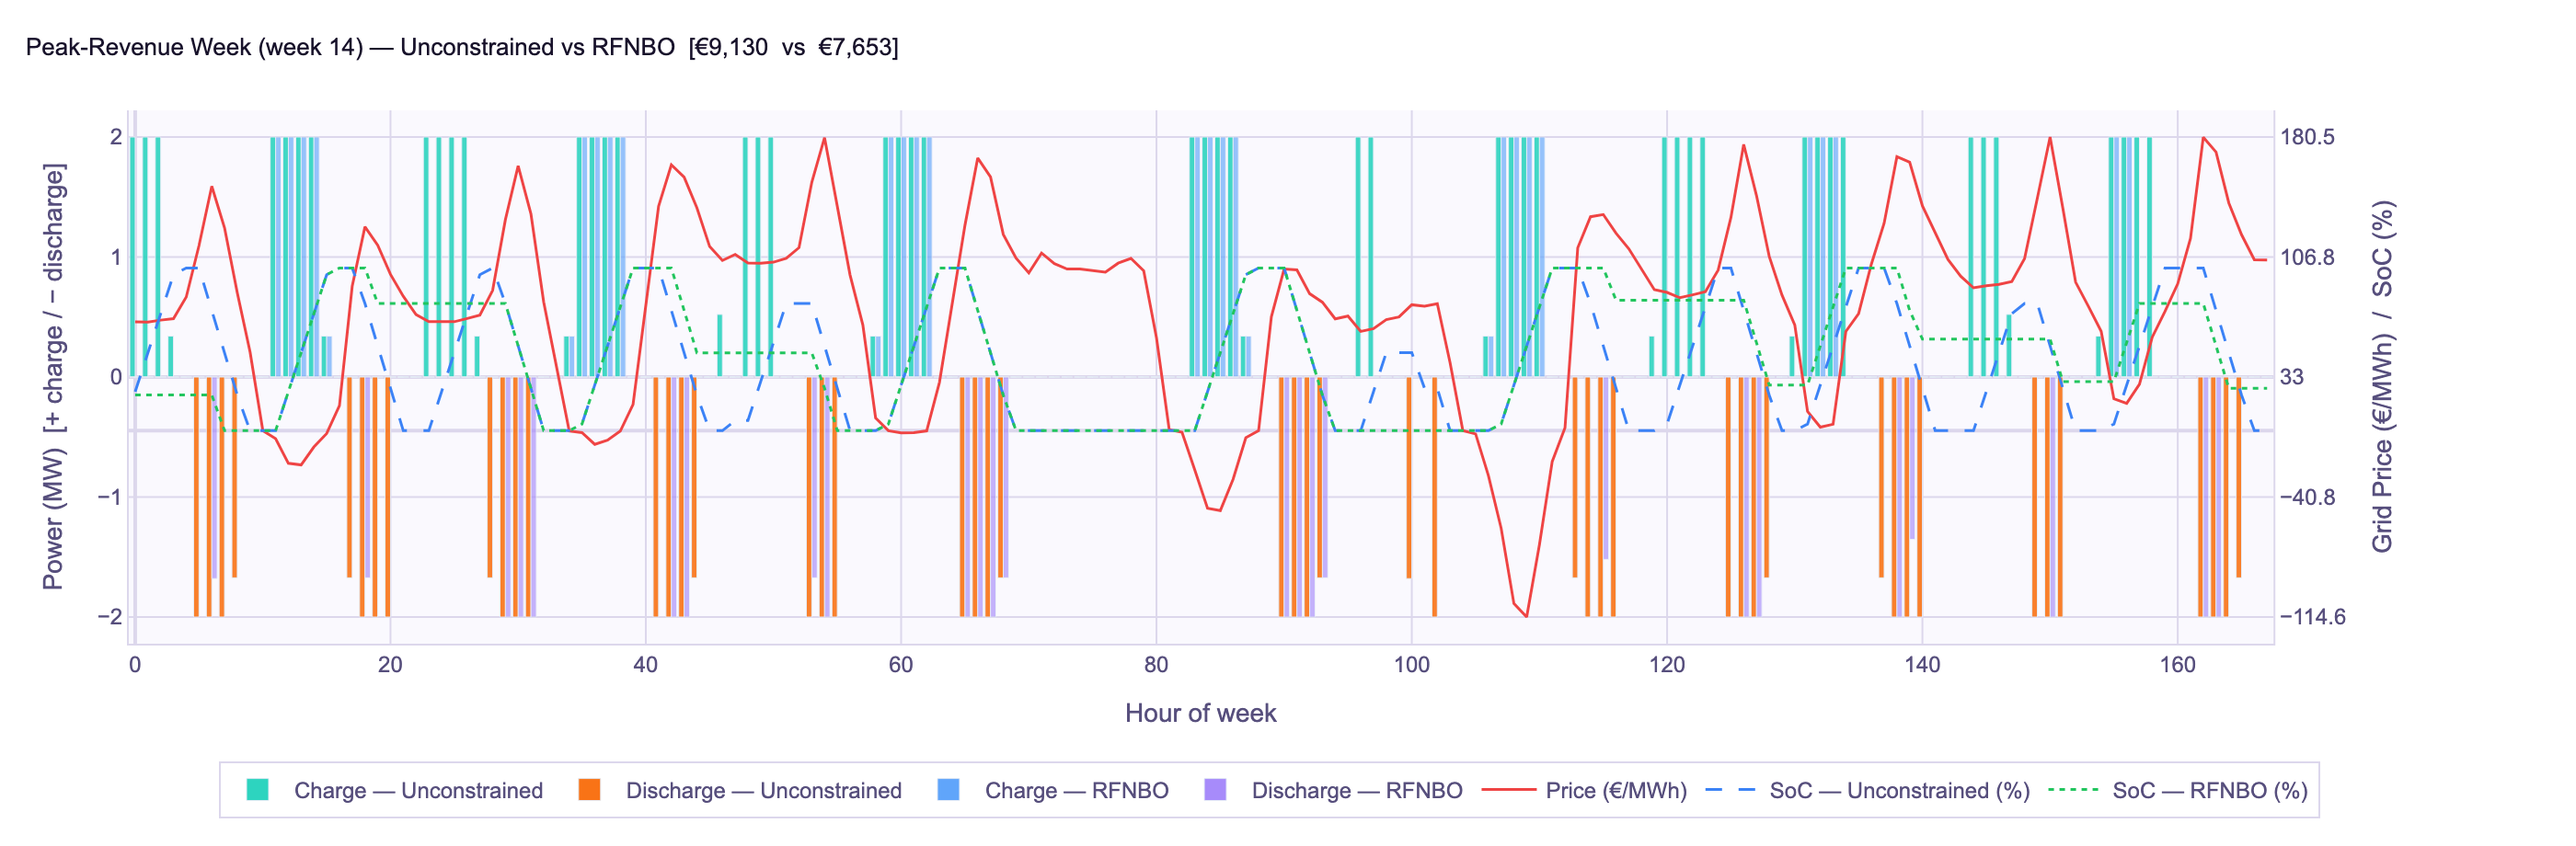
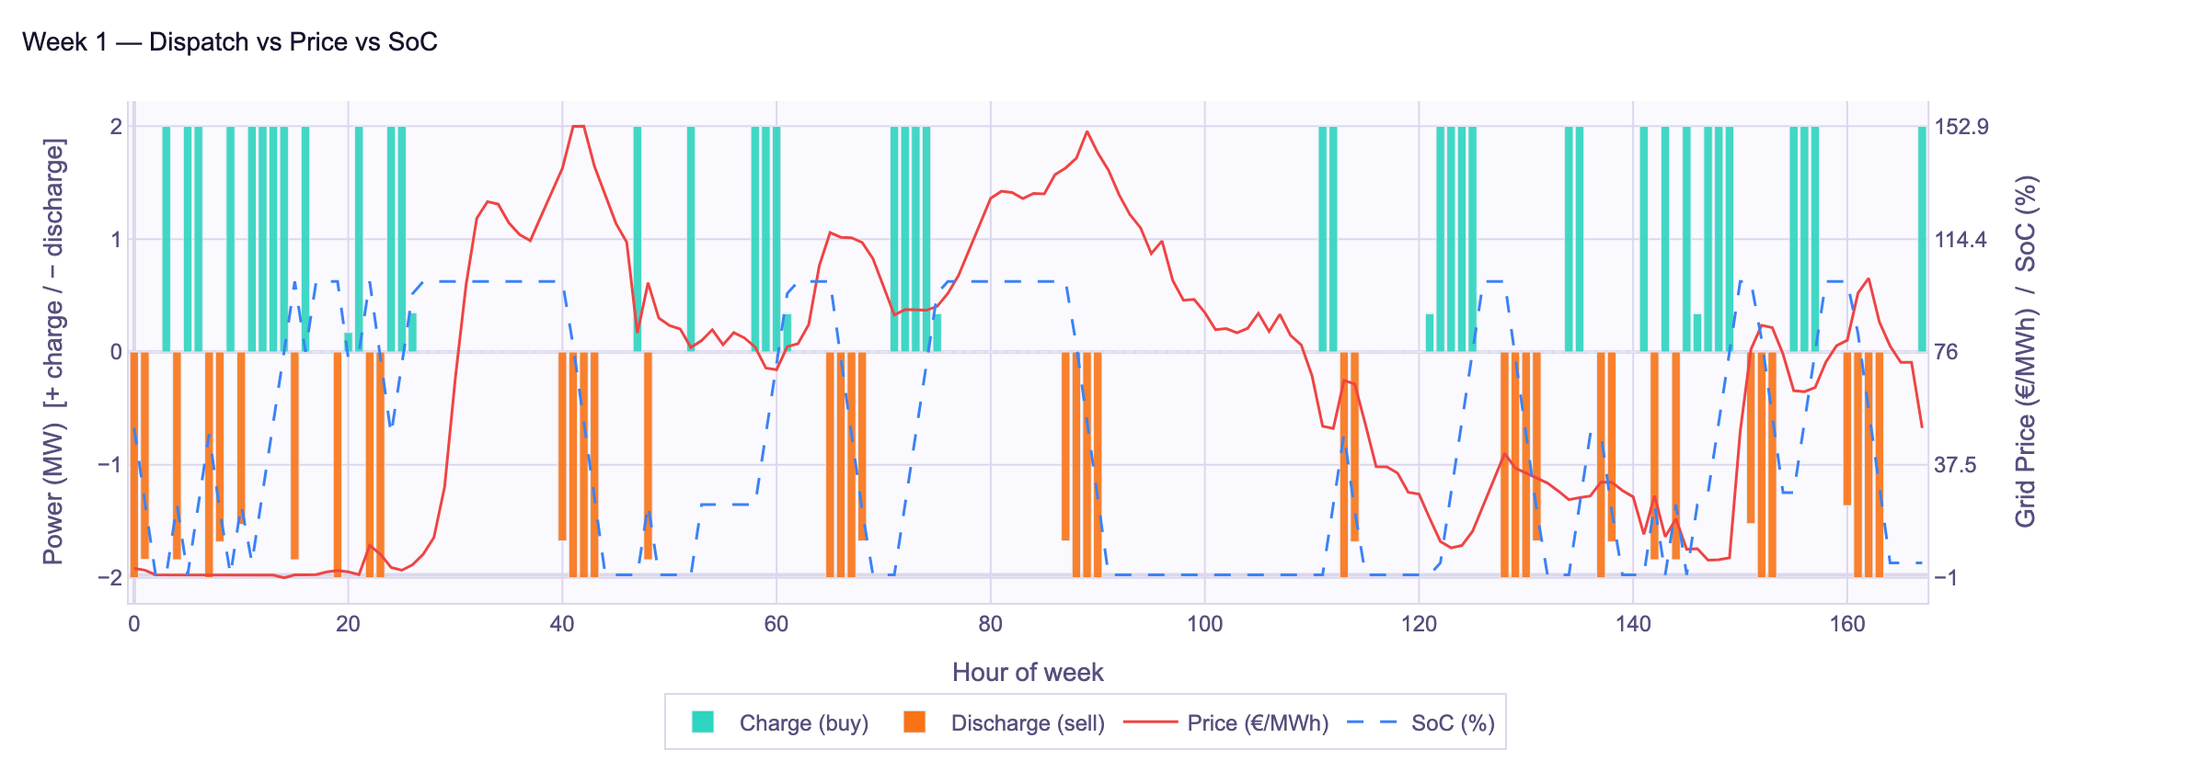
Simplify dispatch chart to Week 1 only, single unconstrained scenario

Changed region(s): [[0.0, 0.1238, 0.9375, 0.9905], [0.0, 0.031, 0.3438, 0.0929]]

diff --git a/scripts/generate_plots.py b/scripts/generate_plots.py
@@ -314,105 +314,58 @@ fig4.write_image(str(path4), **PNG_OPTS)
 print(f"Saved: {path4}")
 
 # ─────────────────────────────────────────────────────────────────────────────
-# Plot 5 — Peak-Revenue Week: Unconstrained vs RFNBO in one unified chart
-# Bars are the only visual differentiator between the two scenarios.
+# Plot 5 — Week 1: Dispatch vs Price vs SoC
 # ─────────────────────────────────────────────────────────────────────────────
 import numpy as np
 
-rev_arr    = np.array(revenue_eur)
 charge_arr = np.array(charge_mw)
 disch_arr  = np.array(discharge_mw)
 soc_arr    = np.array(soc_mwh)
 price_arr  = np.array(prices)
+rev_arr    = np.array(revenue_eur)
 
-# Find the week (168 h window) with highest total revenue
-weekly_rev = [rev_arr[i*168:(i+1)*168].sum() for i in range(52)]
-best_week  = int(np.argmax(weekly_rev))
-s = best_week * 168
-e = s + 168
-hw = list(range(168))   # hour-of-week x-axis
-
-charge_rfnbo_arr = np.array(result_rfnbo["schedule"]["Charge_MW"])
-disch_rfnbo_arr  = np.array(result_rfnbo["schedule"]["Discharge_MW"])
-soc_rfnbo_arr    = np.array(result_rfnbo["schedule"]["SoC_MWh"])
-
-soc_pct       = (soc_arr[s:e]       / cap_mwh * 100).tolist()
-soc_rfnbo_pct = (soc_rfnbo_arr[s:e] / cap_mwh * 100).tolist()
-
-week_rev_unc  = weekly_rev[best_week]
-week_rev_rfnbo = float(np.array(rev_rfnbo)[s:e].sum())
+# Fixed: first 168 hours of the year (Week 1)
+hw = list(range(168))
+soc_pct = (soc_arr[:168] / cap_mwh * 100).tolist()
 
 fig5 = make_subplots(specs=[[{"secondary_y": True}]])
 
-# ── Bars: Unconstrained (teal charge / orange discharge) ─────────────────────
 fig5.add_trace(go.Bar(
-    name        = f"Charge — Unconstrained",
-    x           = hw,
-    y           = charge_arr[s:e].tolist(),
-    marker      = dict(color="#2DD4BF", opacity=0.9),
-    offsetgroup = 0,
+    name   = "Charge (buy)",
+    x      = hw,
+    y      = charge_arr[:168].tolist(),
+    marker = dict(color="#2DD4BF", opacity=0.9),
 ), secondary_y=False)
 
 fig5.add_trace(go.Bar(
-    name        = f"Discharge — Unconstrained",
-    x           = hw,
-    y           = (-disch_arr[s:e]).tolist(),
-    marker      = dict(color="#F97316", opacity=0.9),
-    offsetgroup = 0,
+    name   = "Discharge (sell)",
+    x      = hw,
+    y      = (-disch_arr[:168]).tolist(),
+    marker = dict(color="#F97316", opacity=0.9),
 ), secondary_y=False)
 
-# ── Bars: RFNBO (blue charge / amber discharge), overlaid at lower opacity ───
-fig5.add_trace(go.Bar(
-    name        = f"Charge — RFNBO",
-    x           = hw,
-    y           = charge_rfnbo_arr[s:e].tolist(),
-    marker      = dict(color="#60A5FA", opacity=0.65),
-    offsetgroup = 1,
-), secondary_y=False)
-
-fig5.add_trace(go.Bar(
-    name        = f"Discharge — RFNBO",
-    x           = hw,
-    y           = (-disch_rfnbo_arr[s:e]).tolist(),
-    marker      = dict(color="#A78BFA", opacity=0.65),
-    offsetgroup = 1,
-), secondary_y=False)
-
-# ── Lines: shared price + two SoC curves ─────────────────────────────────────
 fig5.add_trace(go.Scatter(
     name = "Price (€/MWh)",
     x    = hw,
-    y    = price_arr[s:e].tolist(),
+    y    = price_arr[:168].tolist(),
     mode = "lines",
     line = dict(color="#EF4444", width=1.5),
 ), secondary_y=True)
 
 fig5.add_trace(go.Scatter(
-    name = "SoC — Unconstrained (%)",
+    name = "SoC (%)",
     x    = hw,
     y    = soc_pct,
     mode = "lines",
     line = dict(color="#3B82F6", width=1.5, dash="dash"),
 ), secondary_y=True)
 
-fig5.add_trace(go.Scatter(
-    name = "SoC — RFNBO (%)",
-    x    = hw,
-    y    = soc_rfnbo_pct,
-    mode = "lines",
-    line = dict(color="#22C55E", width=1.5, dash="dot"),
-), secondary_y=True)
-
 fig5.update_layout(base_layout(
     title   = dict(
-        text=(
-            f"Peak-Revenue Week (week {best_week + 1}) — Unconstrained vs RFNBO  "
-            f"[€{week_rev_unc:,.0f}  vs  €{week_rev_rfnbo:,.0f}]"
-        ),
-        font=dict(size=13, color=C["gray900"]), x=0.01,
+        text="Week 1 — Dispatch vs Price vs SoC",
+        font=dict(size=14, color=C["gray900"]), x=0.01,
     ),
-    barmode = "group",
-    bargap  = 0.15,
+    barmode = "relative",
     xaxis   = dict(**AXIS_STYLE, title=dict(text="Hour of week")),
     yaxis   = dict(**AXIS_STYLE, title=dict(text="Power (MW)  [+ charge / − discharge]")),
     yaxis2  = dict(
@@ -422,15 +375,19 @@ fig5.update_layout(base_layout(
     ),
     legend  = dict(
         bgcolor="rgba(255,255,255,0.9)", bordercolor=C["gray200"], borderwidth=1,
-        orientation="h", x=0.5, xanchor="center", y=-0.22,
+        orientation="h", x=0.5, xanchor="center", y=-0.18,
     ),
-    height  = 460,
-    width   = 1400,
-    margin  = dict(t=60, r=90, b=110, l=70),
+    height  = 420,
+    width   = 1200,
+    margin  = dict(t=55, r=90, b=90, l=70),
 ))
 
+# Also compute best_week for the print summary at end
+weekly_rev = [rev_arr[i*168:(i+1)*168].sum() for i in range(52)]
+best_week  = int(np.argmax(weekly_rev))
+
 path5 = OUT_DIR / "peak_week_comparison.png"
-fig5.write_image(str(path5), format="png", width=1400, height=460, scale=2)
+fig5.write_image(str(path5), **PNG_OPTS)
 print(f"Saved: {path5}")
 
 # ─────────────────────────────────────────────────────────────────────────────
@@ -458,4 +415,4 @@ print(f"Saved: docs/results_table.md")
 print(f"\nAll plots saved to docs/images/")
 print(f"Annual revenue (real MILP): €{result['annual_revenue_eur']:,.0f}")
 print(f"RFNBO penalty:              €{penalty:,.0f} ({penalty_pct:.1f}%)")
-print(f"Peak revenue week:          week {best_week + 1}  (€{weekly_rev[best_week]:,.0f}  unconstrained  /  €{week_rev_rfnbo:,.0f}  RFNBO)")
+print(f"Peak revenue week:          week {best_week + 1}  (€{weekly_rev[best_week]:,.0f})")
